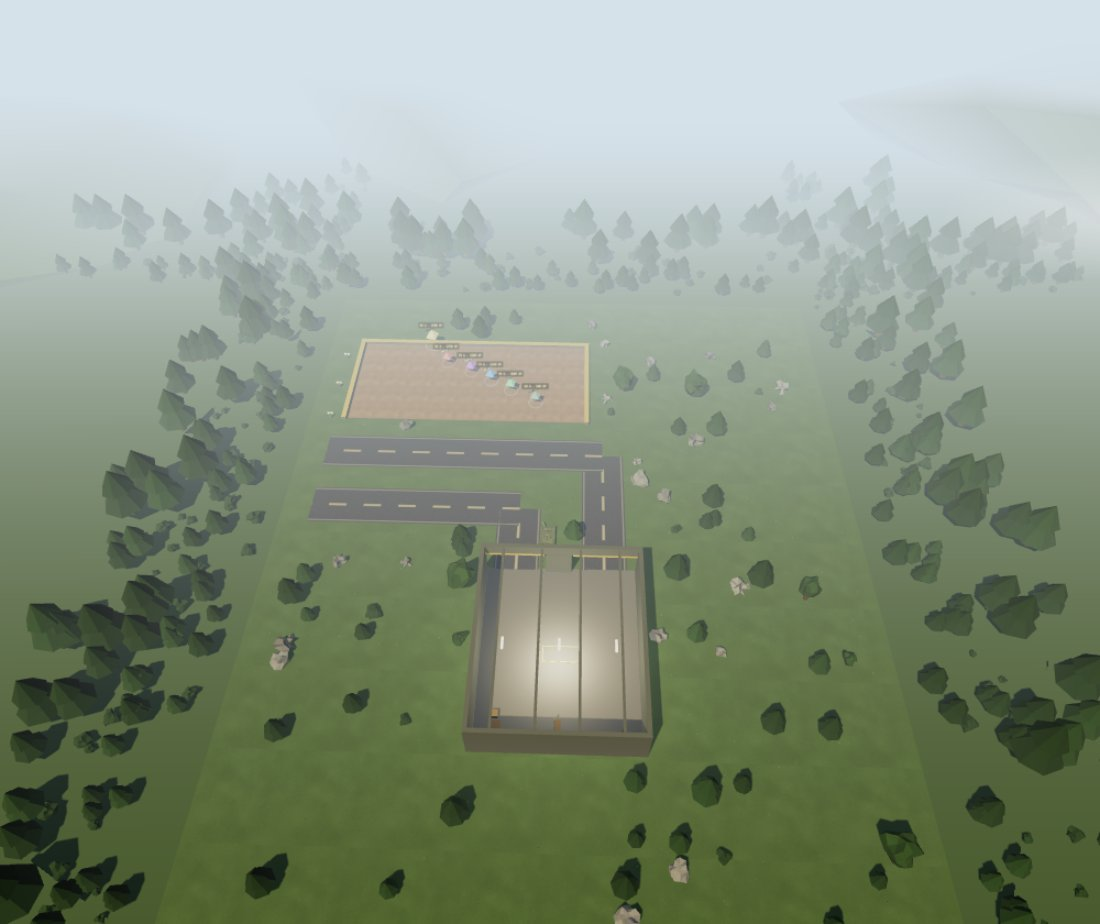
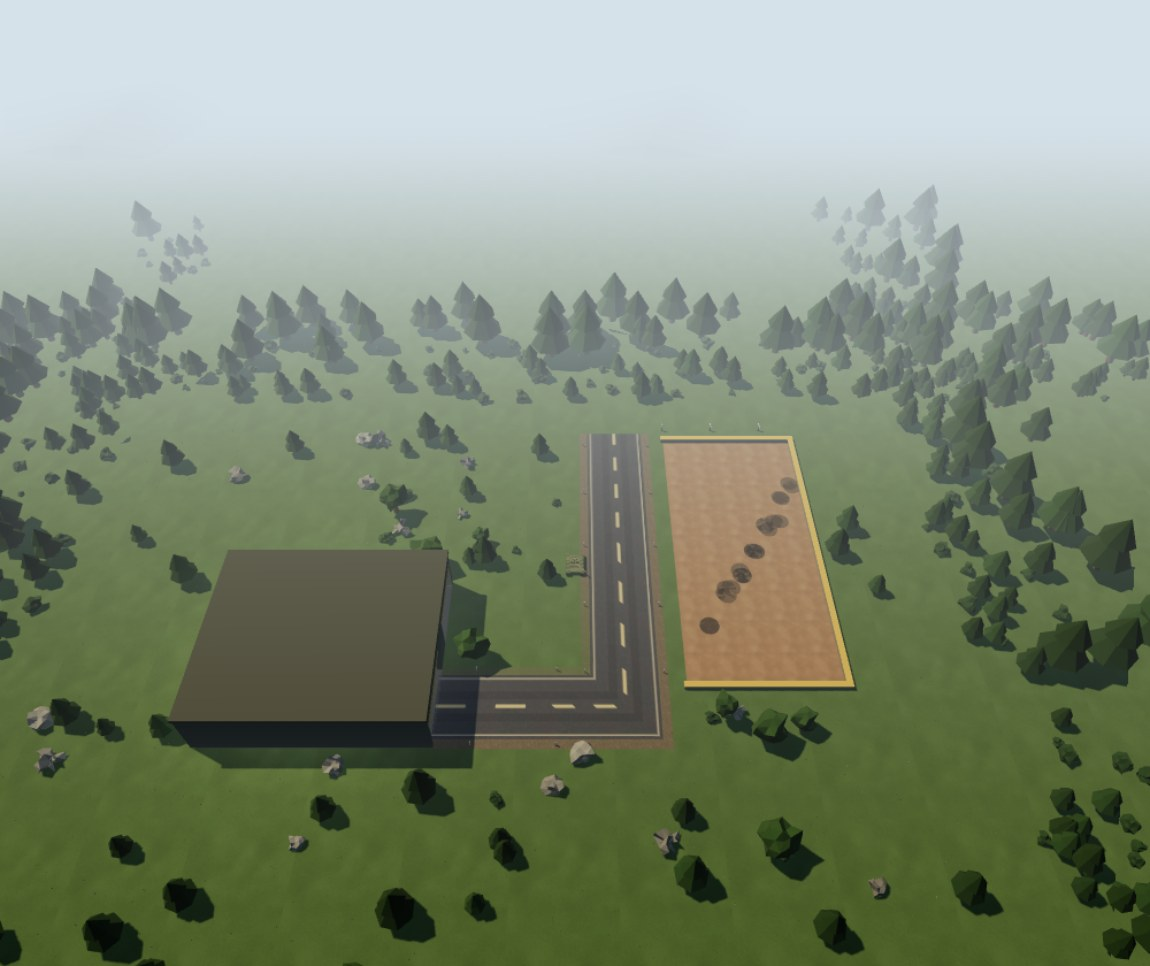
feat: одна дорога с обочиной и столбиками вместо сетки из четырёх отрезков; земля и фон единым полотном, холмы на горизонте отодвинуты (v0.15)

diff --git a/src/world3d.js b/src/world3d.js
@@ -28,7 +28,12 @@ function radialJitter(geo, amt) {
   return geo;
 }
 
-function groundTexture(rng) {
+// Сторона полотна земли: 700 м, чтобы фон и локация были одной текстурой
+const GROUND_SIZE = 700;
+// Метр на текстуру земли: тайл 15×15 м, как было на 150×120
+const GROUND_TILE = 15;
+
+function groundTexture(rng, size) {
   const c = document.createElement("canvas");
   c.width = c.height = 512;
   const g = c.getContext("2d");
@@ -56,9 +61,10 @@ function groundTexture(rng) {
 
   const tex = new THREE.CanvasTexture(c);
   tex.wrapS = tex.wrapT = THREE.RepeatWrapping;
-  tex.repeat.set(10, 8);
+  const tiles = size / GROUND_TILE; // один и тот же масштаб тайла по обеим осям
+  tex.repeat.set(tiles, tiles);
   tex.colorSpace = THREE.SRGBColorSpace;
-  tex.anisotropy = 4;
+  tex.anisotropy = 8;
   return tex;
 }
 
@@ -71,21 +77,103 @@ function roadTexture() {
   const rng = mulberry32(90210);
   g.fillStyle = "#4a4d54";
   g.fillRect(0, 0, 128, 128);
+  // Заплатки и потёртости — асфальт не должен читаться как заливка
+  for (let i = 0; i < 6; i++) {
+    const x = rng() * 128, y = rng() * 128, r = 8 + rng() * 22;
+    g.fillStyle = `rgba(${rng() < 0.5 ? 62 : 92},${66},${72},0.16)`;
+    g.beginPath(); g.arc(x, y, r, 0, Math.PI * 2); g.fill();
+  }
   for (let i = 0; i < 1600; i++) {
     const v = 58 + Math.floor(rng() * 62);
     g.fillStyle = `rgba(${v},${v},${v + 6},0.22)`;
     g.fillRect(rng() * 128, rng() * 128, 2, 2);
   }
-  g.fillStyle = "rgba(212,206,176,0.5)";
-  g.fillRect(0, 5, 128, 3);
-  g.fillRect(0, 120, 128, 3);
-  g.fillStyle = "rgba(226,214,150,0.75)";
-  g.fillRect(0, 61, 64, 6); // осевая: 4 м штрих / 4 м пробел при тайле 8 м
+  // Колее прокрутки — две полосы вдоль дороги
+  g.fillStyle = "rgba(30,32,36,0.16)";
+  g.fillRect(0, 34, 128, 16);
+  g.fillRect(0, 78, 128, 16);
+  // Сплошные линии по краям полотна
+  g.fillStyle = "rgba(222,216,186,0.62)";
+  g.fillRect(0, 6, 128, 3);
+  g.fillRect(0, 119, 128, 3);
+  // Осевая: 4 м штрих / 4 м пробел при тайле 8 м
+  g.fillStyle = "rgba(230,216,150,0.8)";
+  g.fillRect(0, 61, 64, 6);
   const tex = new THREE.CanvasTexture(c);
   tex.wrapS = tex.wrapT = THREE.RepeatWrapping;
   tex.colorSpace = THREE.SRGBColorSpace;
-  tex.anisotropy = 4;
+  tex.anisotropy = 8;
   return tex;
+}
+
+// Обочина под полотном: гравий шире дороги, чтобы асфальт не «висел» в траве
+function shoulderTexture() {
+  const c = document.createElement("canvas");
+  c.width = c.height = 128;
+  const g = c.getContext("2d");
+  const rng = mulberry32(13579);
+  g.fillStyle = "#6d6350";
+  g.fillRect(0, 0, 128, 128);
+  for (let i = 0; i < 2600; i++) {
+    const v = 78 + Math.floor(rng() * 70);
+    g.fillStyle = `rgba(${v},${v - 6},${v - 22},0.4)`;
+    g.fillRect(rng() * 128, rng() * 128, 2, 2);
+  }
+  const tex = new THREE.CanvasTexture(c);
+  tex.wrapS = tex.wrapT = THREE.RepeatWrapping;
+  tex.colorSpace = THREE.SRGBColorSpace;
+  tex.anisotropy = 8;
+  return tex;
+}
+
+// Лента по ломаной с митровым стыком на углу: дорога получается цельной,
+// без щелей и наложенных квадратов в повороте.
+function ribbon(path, halfW, y, uvScale, mat) {
+  const n = path.length;
+  const dirs = [];
+  for (let i = 0; i < n - 1; i++) {
+    const dx = path[i + 1][0] - path[i][0];
+    const dz = path[i + 1][1] - path[i][1];
+    const l = Math.hypot(dx, dz) || 1;
+    dirs.push([dx / l, dz / l, l]);
+  }
+  const pos = [];
+  const uv = [];
+  const nrm = [];
+  const idx = [];
+  let dist = 0;
+  for (let i = 0; i < n; i++) {
+    const [x, z] = path[i];
+    let nx, nz, miter = 1;
+    const side = i === 0 ? dirs[0] : i === n - 1 ? dirs[n - 2] : null;
+    if (side) {
+      nx = -side[1]; nz = side[0];
+    } else {
+      // Угол: усредняем нормали соседних участков и растягиваем под угол стыка
+      const a = [-dirs[i - 1][1], dirs[i - 1][0]];
+      const b = [-dirs[i][1], dirs[i][0]];
+      const l = Math.hypot(a[0] + b[0], a[1] + b[1]) || 1;
+      nx = (a[0] + b[0]) / l; nz = (a[1] + b[1]) / l;
+      miter = 1 / Math.max(0.4, a[0] * nx + a[1] * nz);
+    }
+    pos.push(x + nx * halfW * miter, y, z + nz * halfW * miter);
+    pos.push(x - nx * halfW * miter, y, z - nz * halfW * miter);
+    nrm.push(0, 1, 0, 0, 1, 0); // полотно плоское — нормали задаём явно
+    uv.push(dist / uvScale, 0, dist / uvScale, 1);
+    if (i < n - 1) dist += dirs[i][2];
+  }
+  for (let i = 0; i < n - 1; i++) {
+    const a = i * 2;
+    idx.push(a, a + 2, a + 1, a + 1, a + 2, a + 3);
+  }
+  const geo = new THREE.BufferGeometry();
+  geo.setAttribute("position", new THREE.Float32BufferAttribute(pos, 3));
+  geo.setAttribute("normal", new THREE.Float32BufferAttribute(nrm, 3));
+  geo.setAttribute("uv", new THREE.Float32BufferAttribute(uv, 2));
+  geo.setIndex(idx);
+  const mesh = new THREE.Mesh(geo, mat);
+  mesh.receiveShadow = true;
+  return mesh;
 }
 
 // Земля зоны мишеней: глина с колеёй и разбросанным песком
@@ -146,12 +234,14 @@ export function createWorld(scene) {
   const M = BALANCE.map;
   const rng = mulberry32(20261006);
 
-  // Зоны, свободные от декора: полотно дорог, ангар, зона мишеней.
+  // Зоны, свободные от декора: полотно дороги, ангар, зона мишеней.
   // Иначе дерево встаёт на дорогу, а куст — прямо в линию огня.
   function isReserved(x, z) {
-    const half = M.roadWidth / 2 + 1.6;
-    for (const r of M.roads) {
-      if (pointSegDist(x, z, r.ax, r.az, r.bx, r.bz) < half) return true;
+    const half = M.road.width / 2 + 2.4;
+    for (let i = 0; i < M.road.path.length - 1; i++) {
+      const [ax, az] = M.road.path[i];
+      const [bx, bz] = M.road.path[i + 1];
+      if (pointSegDist(x, z, ax, az, bx, bz) < half) return true;
     }
     const H = M.hangar;
     if (x > H.x0 - 3 && x < H.x1 + 3 && z > H.z0 - 3 && z < H.z1 + 3) return true;
@@ -229,24 +319,15 @@ export function createWorld(scene) {
     scene.add(cloud);
   }
 
-  // --- Подложка за пределами карты: за границей — земля, а не пустота ---
-  const apron = new THREE.Mesh(
-    new THREE.PlaneGeometry(700, 700),
-    new THREE.MeshStandardMaterial({ color: 0x4f6840, roughness: 1 })
-  );
-  apron.rotation.x = -Math.PI / 2;
-  apron.position.y = -0.08;
-  apron.receiveShadow = true;
-  scene.add(apron);
-
-  // --- Земля ---
-  const ground = new THREE.Mesh(
-    new THREE.PlaneGeometry(W, D),
-    new THREE.MeshStandardMaterial({ map: groundTexture(rng), roughness: 1 })
-  );
-  ground.rotation.x = -Math.PI / 2;
-  ground.receiveShadow = true;
-  scene.add(ground);
+  // Земля: одно полотно 700×700. Раньше локация и подложка фона были двумя
+// плоскостями разного цвета — по краю карты шёл заметный шов.
+const ground = new THREE.Mesh(
+  new THREE.PlaneGeometry(GROUND_SIZE, GROUND_SIZE),
+  new THREE.MeshStandardMaterial({ map: groundTexture(rng, GROUND_SIZE), roughness: 1 })
+);
+ground.rotation.x = -Math.PI / 2;
+ground.receiveShadow = true;
+scene.add(ground);
 
   // --- Материалы и геометрии декора ---
   const trunkMat = new THREE.MeshStandardMaterial({ color: 0x6b4f2f, roughness: 1, flatShading: true });
@@ -273,28 +354,51 @@ export function createWorld(scene) {
   const bushGeo = radialJitter(new THREE.IcosahedronGeometry(0.65, 1), 0.4);
 
   // =======================================================================
-  // ДОРОГИ (синие на эскизе) — полотно 9 м с осевой разметкой
+  // ДОРОГА (v0.15) — одна: из ангара на запад, потом на юг вдоль зоны мишеней
   // =======================================================================
+  const RD = M.road;
   const roadBase = roadTexture();
-  const roadLen = (r) => Math.hypot(r.bx - r.ax, r.bz - r.az);
-  for (const r of M.roads) {
-    const len = roadLen(r);
-    const tex = roadBase.clone();
-    tex.needsUpdate = true;
-    tex.repeat.set(Math.max(1, Math.round(len / 8)), 1); // тайл = 8 м: 4 м штрих / 4 м пробел
-    // Поворот в XZ запекаем в геометрию: у Euler (x=-90°, y=θ) мировая ось
-    // наклоняется, и полотно встаёт вертикально. После bake — только поворот вокруг Y.
-    const geo = new THREE.PlaneGeometry(len, M.roadWidth);
-    geo.rotateX(-Math.PI / 2);
-    const road = new THREE.Mesh(
-      geo,
-      new THREE.MeshStandardMaterial({ map: tex, roughness: 1 })
-    );
-    road.rotation.y = -Math.atan2(r.bz - r.az, r.bx - r.ax);
-    road.position.set((r.ax + r.bx) / 2, 0.03, (r.az + r.bz) / 2);
-    road.receiveShadow = true;
-    scene.add(road);
+  roadBase.repeat.set(1, 1);
+  scene.add(ribbon(RD.path, RD.width / 2 + 1.6, 0.015, 4, new THREE.MeshStandardMaterial({
+    map: shoulderTexture(), roughness: 1,
+  })));
+  const roadTex = roadBase.clone();
+  roadTex.needsUpdate = true;
+  roadTex.repeat.set(1, 1);
+  scene.add(ribbon(RD.path, RD.width / 2, 0.03, 8, new THREE.MeshStandardMaterial({
+    map: roadTex, roughness: 1,
+  })));
+
+  // Обочина и полотно одной лентой — на повороте митровый стык, шва не видно.
+
+  // Столбики-разметчики вдоль полотна: «здесь полигон»
+  const postGeo = new THREE.BoxGeometry(0.14, 1.0, 0.14);
+  const postMat = new THREE.MeshStandardMaterial({ color: 0xe4e2d6, roughness: 0.9 });
+  const posts = [];
+  const _pm = new THREE.Matrix4();
+  const _pp = new THREE.Vector3();
+  const _pq = new THREE.Quaternion();
+  const _ps = new THREE.Vector3(1, 1, 1);
+  for (let i = 0; i < RD.path.length - 1; i++) {
+    const [ax, az] = RD.path[i];
+    const [bx, bz] = RD.path[i + 1];
+    const dx = bx - ax, dz = bz - az;
+    const len = Math.hypot(dx, dz);
+    const ux = dx / len, uz = dz / len;
+    const nx = -uz, nz = ux;
+    for (let d = 6; d < len; d += 13) {
+      for (const side of [-1, 1]) {
+        _pp.set(ax + ux * d + nx * side * (RD.width / 2 + 0.9), 0.5, az + uz * d + nz * side * (RD.width / 2 + 0.9));
+        posts.push(_pm.clone().compose(_pp, _pq, _ps));
+      }
+    }
   }
+  const postMesh = new THREE.InstancedMesh(postGeo, postMat, posts.length);
+  posts.forEach((m, i) => postMesh.setMatrixAt(i, m));
+  postMesh.instanceMatrix.needsUpdate = true;
+  postMesh.castShadow = true;
+  postMesh.frustumCulled = false;
+  scene.add(postMesh);
 
   // =======================================================================
   // ЗОНА МИШЕНЕЙ (красная на эскизе) — глина + бетонный бруствер с тыла
@@ -327,9 +431,9 @@ export function createWorld(scene) {
     scene.add(cap);
   }
 
-  // Метки дистанции от стрелковой линии (дорога A, x = −22) вдоль южного края зоны
+  // Метки дистанции от стрелковой линии вдоль южного края зоны
   for (const d of [10, 20, 30]) {
-    const x = M.roads[1].ax - d;
+    const x = M.road.lineX - d;
     const z = G.z1 + 3;
     const post = new THREE.Mesh(new THREE.BoxGeometry(0.22, 1.6, 0.22), concreteMat);
     post.position.set(x, 0.8, z);
@@ -559,15 +663,16 @@ export function createWorld(scene) {
   }
   instanced(bushGeo, bushMat, brushM);
 
-  // --- Холмы на горизонте: силуэты в дымке ---
+  // --- Холмы на горизонте: силуэты в дымке. Держим их мелкими и дальними —
+  // крупные близкие холмы при тумане 90–280 м читались бы как айсберг ---
   const hillGeo = radialJitter(new THREE.IcosahedronGeometry(1, 1), 0.35);
   const hillMat = new THREE.MeshStandardMaterial({ color: 0x5d7549, roughness: 1, flatShading: true });
-  for (let i = 0; i < 9; i++) {
-    const a = (i / 9) * Math.PI * 2 + rng() * 0.5;
-    const dist = 200 + rng() * 70;
+  for (let i = 0; i < 11; i++) {
+    const a = (i / 11) * Math.PI * 2 + rng() * 0.5;
+    const dist = 235 + rng() * 55;
     const hill = new THREE.Mesh(hillGeo, hillMat);
-    hill.position.set(Math.cos(a) * dist, -8, Math.sin(a) * dist);
-    hill.scale.set(50 + rng() * 40, 16 + rng() * 14, 50 + rng() * 40);
+    hill.position.set(Math.cos(a) * dist, -6, Math.sin(a) * dist);
+    hill.scale.set(32 + rng() * 26, 9 + rng() * 7, 32 + rng() * 26);
     scene.add(hill);
   }
 

diff --git a/src/balance.js b/src/balance.js
@@ -6,7 +6,7 @@
 // var, а не const: файл подключается классическим <script>, а var попадает
 // в window — иначе ES-модули Three.js не увидят глобальный BALANCE.
 var BALANCE = {
-  version: "v0.14",
+  version: "v0.15",
 
   // Режимы сложности. HR — авто-наведение и бодрая перезарядка:
   // дойти до контактов должен человек, который в последний раз играл в «Сапёра».
@@ -32,16 +32,13 @@ var BALANCE = {
     // Гараж: стены 8.5 м, крыша 8.8 м, выезд на запад (широкий бокс с простенком)
     hangar: { x0: 8, x1: 44, z0: -14, z1: 16, wall: 8.5, roof: 8.8 },
 
-    // Дороги: осевые линии отрезков, полотно roadWidth м
-    // B — северная (гараж → запад), A — западная (на юг),
-    // D — южная (гараж → запад), C — восточная (на юг)
-    roadWidth: 9,
-    roads: [
-      { name: "B", ax: 8, az: -7.5, bx: -22, bz: -7.5 },
-      { name: "A", ax: -22, az: -7.5, bx: -22, bz: 54 },
-      { name: "D", ax: 8, az: 10, bx: -7, bz: 10 },
-      { name: "C", ax: -7, az: 10, bx: -7, bz: 54 },
-    ],
+    // Дорога одна (v0.15): из ангара на запад, потом на юг вдоль зоны мишеней.
+    // Осевая линия — ломаная; полотно шириной width м, по краям обочина.
+    road: {
+      width: 11,
+      path: [[8, -7.5], [-22, -7.5], [-22, 54]],
+      lineX: -22, // стрелковая линия: от неё считаются метки дистанции
+    },
 
     // Зона мишеней: глина + бетонный бруствер с трёх сторон (с тыла)
     range: { x0: -58, x1: -32, z0: -4, z1: 52 },
@@ -95,6 +92,7 @@ var BALANCE = {
 
   // Ченджлог для ангара. Пишется «серьёзно, но с юмором».
   patchNotes: [
+    { v: "v0.15", text: "Дорога одна: из ангара на запад и вдоль зоны мишеней на юг, полотно 11 м, обочина, столбики-разметчики. Четыре отрезка разрослись в сетку с перекрёстками, которых на полигоне быть не должно. Заодно земля и подложка фона стали одним полотном — шва по краю карты больше нет." },
     { v: "v0.14", text: "Новая локация — «стрельбище»: гараж со спавном на востоке, две дороги на запад, зона мишеней на западе за бетонным бруствером. Мишени выстроены лестницей дистанций 64 → 88 м, так что ценность секции снова растёт вместе с расстоянием. Цвет мишени теперь = её цена (зелёный → золотой), легенда — в ангаре. Цена: полёт снаряда вырос с ~0.5 до 1.1–1.5 с, TTK +0.5–1.4 с — коридор сессии держится, проверено прогоном." },
     { v: "v0.13", text: "Ангар: патч-ноты (ты их читаешь), режимы «HR» и «Геймдизайнер», послебоевая статистика. Режим HR — авто-наведение и перезарядка 0.8 с: доступность важнее хардкора." },
     { v: "v0.12", text: "Дифференциал гусениц: в повороте внешняя колея бежит быстрее, внутренняя медленнее, на нейтрали — в противоположные стороны. Формула честная: v = ход ± ω×полуколея (2.6 м между гусеницами)." },
